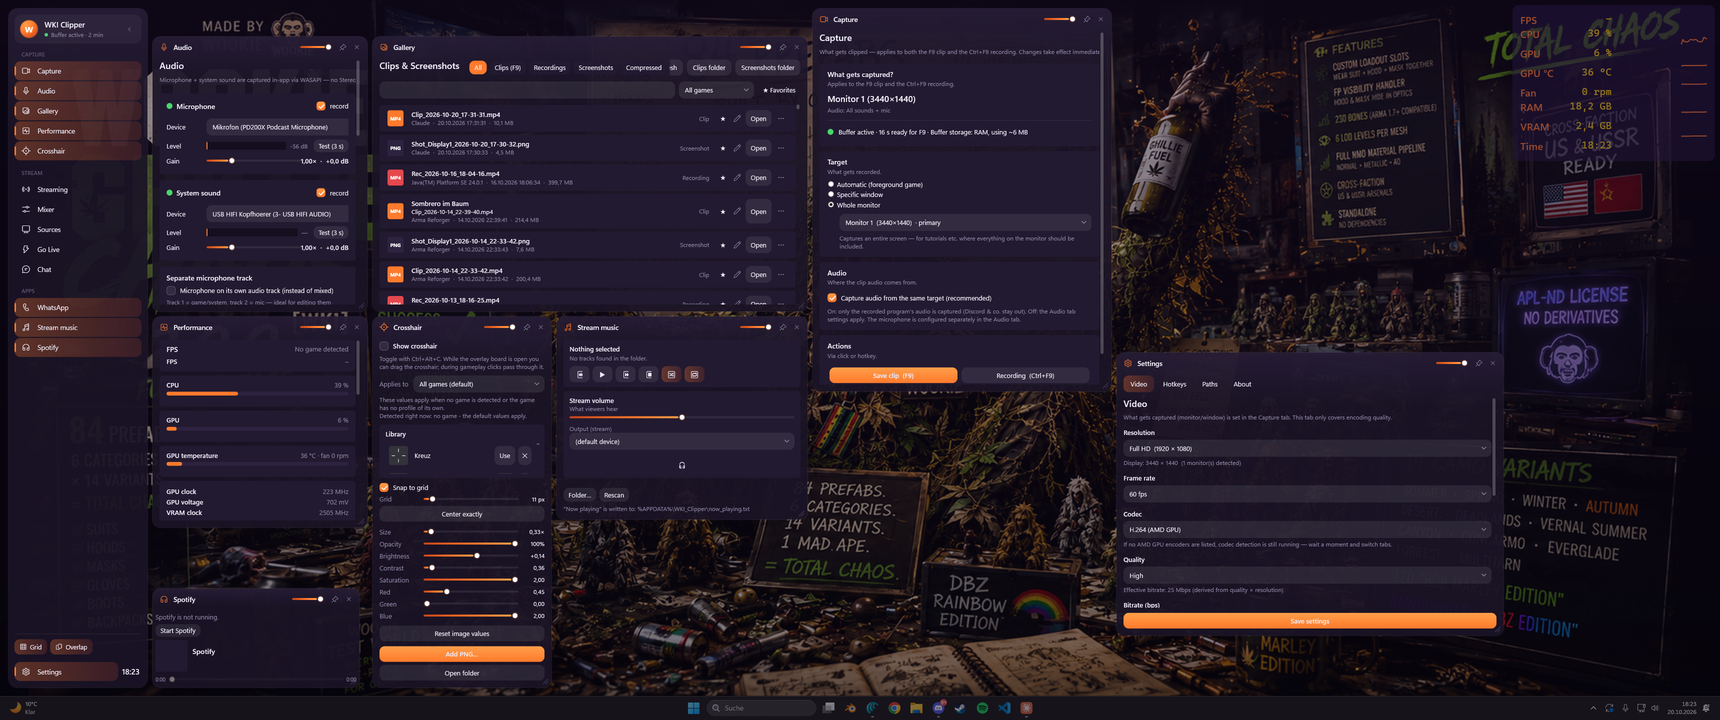
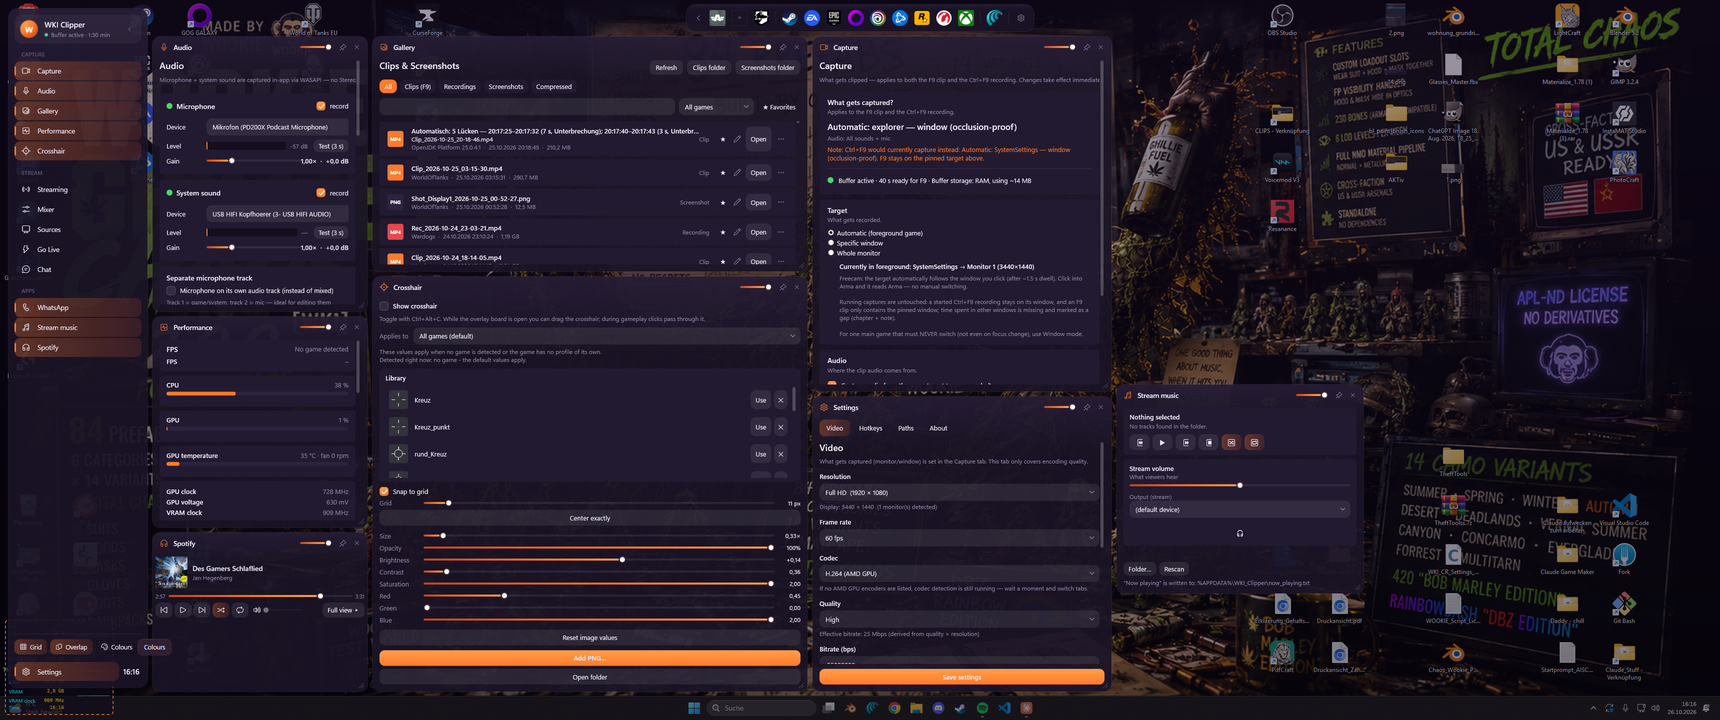
docs(readme): 0.17.0 - shortcut bar, colours, overlay position
Document the 0.17.0 features: the Game-Bar-style shortcut bar (start paths,
edit dialog, browsers), the accent and glass colour themes, the eight-anchor
and free-drag performance overlay position, the Twitch notice for a renamed or
misspelled channel, and frame-exact stitching of long disk-buffer clips.

Add the new screenshots, replace the board hero image, extend the settings
example and table, the architecture list and the known limits.

diff --git a/README.md b/README.md
@@ -2,18 +2,19 @@
 
 Replay clipper, screen recorder and gaming overlay for Windows — one tray app instead of a
 pile of tools. Instant replay of up to 30 minutes, a gallery with notes, trimming and
-one-click Discord compression, an Xbox-style widget board with OBS control, Spotify and
-WhatsApp, a performance overlay with FPS, a crosshair with per-game profiles and clip combos
-on your controller. No account, no telemetry, no cloud.
+one-click Discord compression, an Xbox-style widget board with a shortcut bar for your games,
+launchers and browsers, OBS control, Spotify and WhatsApp, a performance overlay with FPS that
+you can place anywhere, your own accent and glass colours, a crosshair with per-game profiles
+and clip combos on your controller. No account, no telemetry, no cloud.
 
 **[Download the latest release](https://github.com/WKImods/WKI-Clipper/releases/latest)**
 
-![The widget board: sidebar on the left, widgets over the dimmed desktop](docs/screenshots/board.png)
+![The widget board: shortcut bar at the top, sidebar on the left, widgets over the dimmed desktop](docs/screenshots/board.png)
 
-<sub>The widget board with `Ctrl+Alt+G`. The empty space at the top right is the WhatsApp
-widget — it is invisible to every capture, this screenshot included; the numbers in the
-corner are the performance overlay. The UI starts in German; switch to English under
-Settings → About.</sub>
+<sub>The widget board with `Ctrl+Alt+G`. The shortcut bar is at the top centre. The empty
+space at the top right is the WhatsApp widget — it is invisible to every capture, this
+screenshot included; the small dashed box at the bottom left is the performance overlay in
+drag mode. The UI starts in German; switch to English under Settings → About.</sub>
 
 ## Hotkeys
 
@@ -26,7 +27,7 @@ Settings → About.</sub>
 | `Ctrl+F10` | Pause/resume the replay buffer |
 | `Ctrl+Alt+G` | Open/close the widget board |
 | `Ctrl+Alt+C` | Show/hide the crosshair |
-| *(unbound)* | Spotify play/pause, next, previous · performance overlay on/off |
+| *(unbound)* | Spotify play/pause, next, previous · performance overlay on/off · any [shortcut bar](#shortcut-bar) entry (bound in its edit dialog) |
 
 All hotkeys are rebindable in Settings → Hotkeys (press-to-bind, with collision checks).
 
@@ -53,15 +54,17 @@ also while the game has focus. Out of the box, **View + Menu** saves a clip like
 
 <img src="docs/screenshots/sidebar.png" align="right" width="180" alt="Sidebar, expanded and collapsed to an icon rail">
 
-`Ctrl+Alt+G` opens the board over the game: a dimmed backdrop, a **sidebar** on the left
-and the widgets you have open. Every widget is its own frameless window — drag it, resize
-it, **pin** it to keep it on screen while you play, or close it. A transparency slider in
-each title bar dials a pinned widget down; it turns fully opaque again under the pointer.
+`Ctrl+Alt+G` opens the board over the game: a dimmed backdrop, a **sidebar** on the left, a
+[shortcut bar](#shortcut-bar) at the top centre and the widgets you have open. Every widget
+is its own frameless window — drag it, resize it, **pin** it to keep it on screen while you
+play, or close it. A transparency slider in each title bar dials a pinned widget down; it
+turns fully opaque again under the pointer.
 
 **Sidebar.** Widgets are grouped into *Capture*, *Stream* and *Apps*; open ones are
 highlighted, the WhatsApp unread count shows as a pill. The header shows what the capture
 is doing right now (buffer active · 60 s / paused / recording with its running time), the
-footer holds the layout switches, settings and the clock. It collapses to an icon rail.
+footer holds the layout switches, the [*Colours*](#colours) chip, settings and the clock. It
+collapses to an icon rail.
 
 **Grid.** With *Grid* on, widgets snap to a grid and to each other's edges while you drag
 or resize them (hold `Shift` to place freely). By default they never overlap — a dropped
@@ -156,7 +159,8 @@ disk (about 6–7 GB for 30 minutes at the default quality, up to ~25 GB at *Ver
   names every gap. Footage of another window or with other encoding settings is never
   joined. For gap-free evidence use *Whole monitor* or *Specific window*.
 - **Long clips:** saving 30 minutes takes 20–90 s depending on the disk, with a progress
-  toast; `F8` and `F9` are blocked until it is done.
+  toast; `F8` and `F9` are blocked until it is done. Clips stitched from the disk ring join
+  frame-exactly at 60 fps — no dropped frame at a segment boundary, audio in sync.
 
 ### Per-game profiles
 
@@ -206,16 +210,89 @@ sit in the `…` menu of each row (also on right-click).
 
 <img src="docs/screenshots/trim.png" height="420" alt="Trim… editor: preview, timeline with start and end marks, fast or exact cut">
 
+## Shortcut bar
+
+A strip at the top centre of the board, in the style of the Xbox Game Bar. Click a game, a
+launcher or a browser: the board closes and the program starts the way the Start menu would
+start it — nothing is embedded, moved or parked, the program just opens.
+
+![Expanded shortcut bar: games, launchers, browsers and the gear](docs/screenshots/shortcut-bar.png)
+
+<img src="docs/screenshots/shortcut-bar-collapsed.png" width="300" alt="Collapsed shortcut bar: a chip with the game in front, or the WKI logo">
+
+- **Collapsed or expanded:** collapsed, it is a chip with the game in front — or the WKI
+  logo — and a `›`; expanded, it shows games | launchers | browsers | gear. The state is
+  remembered.
+- **How things start:**
+  - *Steam and Epic games* through their launcher links, so DRM and updates run as usual.
+  - *Other games* through the vendor's own shortcut — never an uninstaller or a side tool such
+    as a server or an editor. A game hosted by a launcher (Riot, Ubisoft …) starts through that
+    launcher's shortcut for the game; without any shortcut, the exe.
+  - *Launchers* through their official start path: Steam, EA app, Epic Games, GOG GALAXY,
+    Ubisoft Connect, Battle.net, Rockstar Games, Wargaming.net Game Center and Xbox — the
+    installed ones only.
+  - Nothing is started as administrator. A program that has been uninstalled turns grey and a
+    notice says so.
+- **Logos** are the programs' own icons; a letter tile stands in when there is none.
+- **Detection:** launchers are found from your Start-menu and desktop shortcuts, in a
+  background scan whenever the board opens (at most once a minute). The game chip and the
+  *Add game…* suggestions come from the clipper's own [game detection](#per-game-profiles).
+- **Browsers:** the *Default browser* button starts the Windows default — never Internet
+  Explorer — or another installed browser of your choice. Opera, Chrome, Comet and Firefox, and
+  any other browser Windows lists, go on the bar with *Add browser…*. A browser that is not
+  installed opens a dialog: its official download page, or another browser to use instead.
+- **Only starts programs:** no window management, no controller combos for shortcuts — a
+  keyboard hotkey per entry works. A widget that sits under the bar is moved below it once.
+
+The gear opens **Edit shortcuts**; every change shows on the bar at once.
+
+<p>
+  <img src="docs/screenshots/shortcut-editor.png" height="420" alt="Edit shortcuts: games, launchers and browsers with show tick, optional hotkey, order and remove">
+  <img src="docs/screenshots/shortcut-library.png" height="420" alt="Add game… → Steam library: pick several games, those already on the bar are greyed out">
+</p>
+
+- **Per entry:** a tick to show or hide it, up/down to reorder, an optional global hotkey
+  (unbound by default; it starts the program even while the board is closed) and, for games
+  and browsers you added, remove.
+- **Add game…:** suggestions from recently detected games, your Steam library or Epic Games
+  (several at once), or *Pick a shortcut or exe…* — an uninstall shortcut is refused.
+- **Rescan** looks at the PC again and removes launchers and browsers that are gone.
+
+## Colours
+
+The **Colours** chip in the sidebar footer opens a panel with two tabs, *Accent* and *Glass*,
+that you combine freely. A click on a swatch applies it at once — no restart — and is saved.
+
+![Colours panel: the Accent and Glass tabs side by side](docs/screenshots/colours.png)
+
+- **Accent:** WKI orange (default), Epic blue, Crimson, Emerald, Royal violet, Gold, Ice
+  blue, Magenta.
+- **Glass:** Violet (default), Night blue, Graphite, Bordeaux, Forest green, Black (OLED).
+- **Custom colour:** hue and saturation sliders or a hex value on either tab; *Default*
+  resets the tab.
+- **Stays readable:** text on a light accent turns dark, an accent too dark for the glass is
+  lightened, and the signal colours — red, green, amber — never change.
+
+<img src="docs/screenshots/theme-blue.png" width="720" alt="The whole board in Epic blue on Night blue glass">
+
 ## Performance overlay
 
-Bare numbers — no window, a soft shadow for legibility — in a screen corner over the game,
-always click-through. Pick the corner, the size (75–200 %) and the values — FPS, frame
-time, 1 % / 0.1 % lows, micro-stutter, CPU, GPU, GPU clock and voltage, GPU temperature,
-fan, RAM, VRAM, VRAM clock, time of day — optionally with 60-second history graphs. For an
-Adrenalin-style look there are 1–3 columns, a graph size, a black or violet backdrop with
-adjustable transparency and colour presets for names and values; *Only show while a game is
-detected* keeps the desktop clean. **Hidden from stream and clips by default**; a tick
-shows it for benchmark videos.
+Bare numbers — no window, a soft shadow for legibility — over the game, click-through while
+you play. Pick the position, the size (75–200 %) and the values — FPS, frame time, 1 % /
+0.1 % lows, micro-stutter, CPU, GPU, GPU clock and voltage, GPU temperature, fan, RAM, VRAM,
+VRAM clock, time of day — optionally with 60-second history graphs. For an Adrenalin-style
+look there are 1–3 columns, a graph size, a black or violet backdrop with adjustable
+transparency and colour presets for names and values; *Only show while a game is detected*
+keeps the desktop clean. **Hidden from stream and clips by default**; a tick shows it for
+benchmark videos.
+
+**Position:** the four corners and the middle of each edge — eight anchors — or *Free*
+(Performance widget → On-screen overlay → *Position*). To place it freely, open the board:
+the overlay gets a dashed outline and can be dragged, and close to one of the eight anchors it
+snaps there. A free spot is stored relative to its monitor's edge, so the overlay stays
+anchored when it grows (more values, a larger size) and stays on screen after a monitor or
+resolution change — a monitor that is gone falls back to the primary one. With the board
+closed it is click-through again. Corner settings from before 0.17.0 keep working.
 
 **FPS, frame time, 1 % / 0.1 % lows and micro-stutter** come from a passive ETW session —
 the same approach as AMD Adrenalin's overlay and the Xbox Game Bar: Windows' graphics
@@ -298,9 +375,11 @@ DPAPI-encrypted. OBS may start after the clipper — the connection re-establish
   (uptime, bitrate, frames dropped *right now*) with a warning even when the widget is
   closed, and a confirmed start sequence: start scene → stream → replay buffer → countdown
   → target scene, aborting honestly if OBS rejects the start.
-- **Chat:** anonymous read-only Twitch chat — no OAuth, just the channel name. Colours and
-  badges, raids/subs/gifts as highlighted blocks, messages addressing you tinted, a pop-up
-  for raids and gifted subs, and a status dot that turns amber when the chat goes silent.
+- **Chat:** anonymous read-only Twitch chat — no OAuth, just the channel name (a `twitch.tv`
+  link works too). Colours and badges, raids/subs/gifts as highlighted blocks, messages
+  addressing you tinted, a pop-up for raids and gifted subs, and a status dot that turns amber
+  when the chat goes silent. A renamed or misspelled channel — Twitch gives no answer within
+  10 s — gets a red notice in the widget and a one-time toast.
 - **Stream music:** plays a folder into the stream device (e.g. a virtual cable) with an
   optional monitor output at its own level; writes "now playing" for an OBS text source.
 
@@ -355,6 +434,9 @@ Everything is configurable in the board. The file behind it is
   "Output":       { "SortByGame": true },
   "Sounds":       { "Enabled": true, "Volume": 0.6 },
   "Gamepad":      { "Enabled": true, "HoldMs": 500 },
+  "PerfOverlay":  { "Enabled": true, "Anchor": "TopRight" },  // 8 anchors | Free (then "Free" holds the spot)
+  "Shortcuts":    { "Expanded": true, "DefaultBrowserId": null },  // plus "Items", the bar's entries
+  "Theme":        { "AccentPreset": "wki-orange", "GlassPreset": "violet" },  // "AccentCustom" / "GlassCustom": "#RRGGBB"
   "Discord":      { "SmallTargetBytes": 20000000, "LargeTargetBytes": 500000000, "OnlyWhenNoGame": false },
   "GameProfiles": { "armareforgersteam.exe": { "DisplayName": "Arma Reforger", "ClipSeconds": 300 } },
   "Behavior":     { "Language": "Deutsch" }
@@ -371,7 +453,9 @@ Everything is configurable in the board. The file behind it is
 | Buffer, clips and screenshots folders | Settings → Paths |
 | Discord sizes, *Only compress while no game is in the foreground* | Settings → About → Discord |
 | Sound cues: switches, volume, output device, own WAVs | Audio widget → Sound cues |
-| FPS values, overlay look | Performance widget → On-screen overlay |
+| FPS values, overlay look and position | Performance widget → On-screen overlay (drag it with the board open for *Free*) |
+| Shortcut bar: entries, order, hotkeys, default browser | Gear on the shortcut bar |
+| Accent and glass colours | Sidebar footer → *Colours* |
 | Crosshair per game | Crosshair widget → *Applies to* |
 
 **Folder rules.** The buffer folder must be a full path — not a bare drive (`D:`), not a
@@ -421,6 +505,9 @@ WKI_Clipper.exe (.NET 8 / WPF, tray)
   +-- WebAppHost               WebView2 for WhatsApp/Spotify (one browser, separate profiles)
   +-- SpotifyMediaService      Spotify via the Windows media session + per-app volume
   +-- PerformanceMonitorService  counters + GPU sensors (D3DKMT), only while visible
+  +-- PerfOverlayPlacement     eight anchors or a free spot on one monitor (pure, tested)
+  +-- ShortcutService          shortcut bar: scan, start paths, hotkeys (resolver and catalogs tested)
+  +-- ThemeService             accent + glass palettes applied live (ThemePaletteBuilder tested)
   Streaming
   +-- ObsWebSocketService      OBS control via obs-websocket v5 (auto-reconnect, events)
   +-- TwitchChatService        anonymous Twitch IRC over WebSocket
@@ -448,6 +535,9 @@ WKI_Clipper.exe (.NET 8 / WPF, tray)
   rate, resolution or the captured window's size (for example toggling fullscreen), ends
   the earlier lookback.
 - **Controllers:** Xbox/XInput only — no PlayStation pads yet, no Share or Guide button.
+- **Shortcuts only start programs:** the bar neither moves nor embeds windows, and there are no
+  controller combos for it — a keyboard hotkey per entry works.
+- **Colours:** the theme does not change the tray menu and tray icon.
 - **CPU temperature** is not shown (needs a kernel driver).
 - **Flicker with the board open?** Windows' *content adaptive brightness* reacts to the dim
   backdrop and can make the whole screen flicker on OLED/VRR displays — turn it off in
